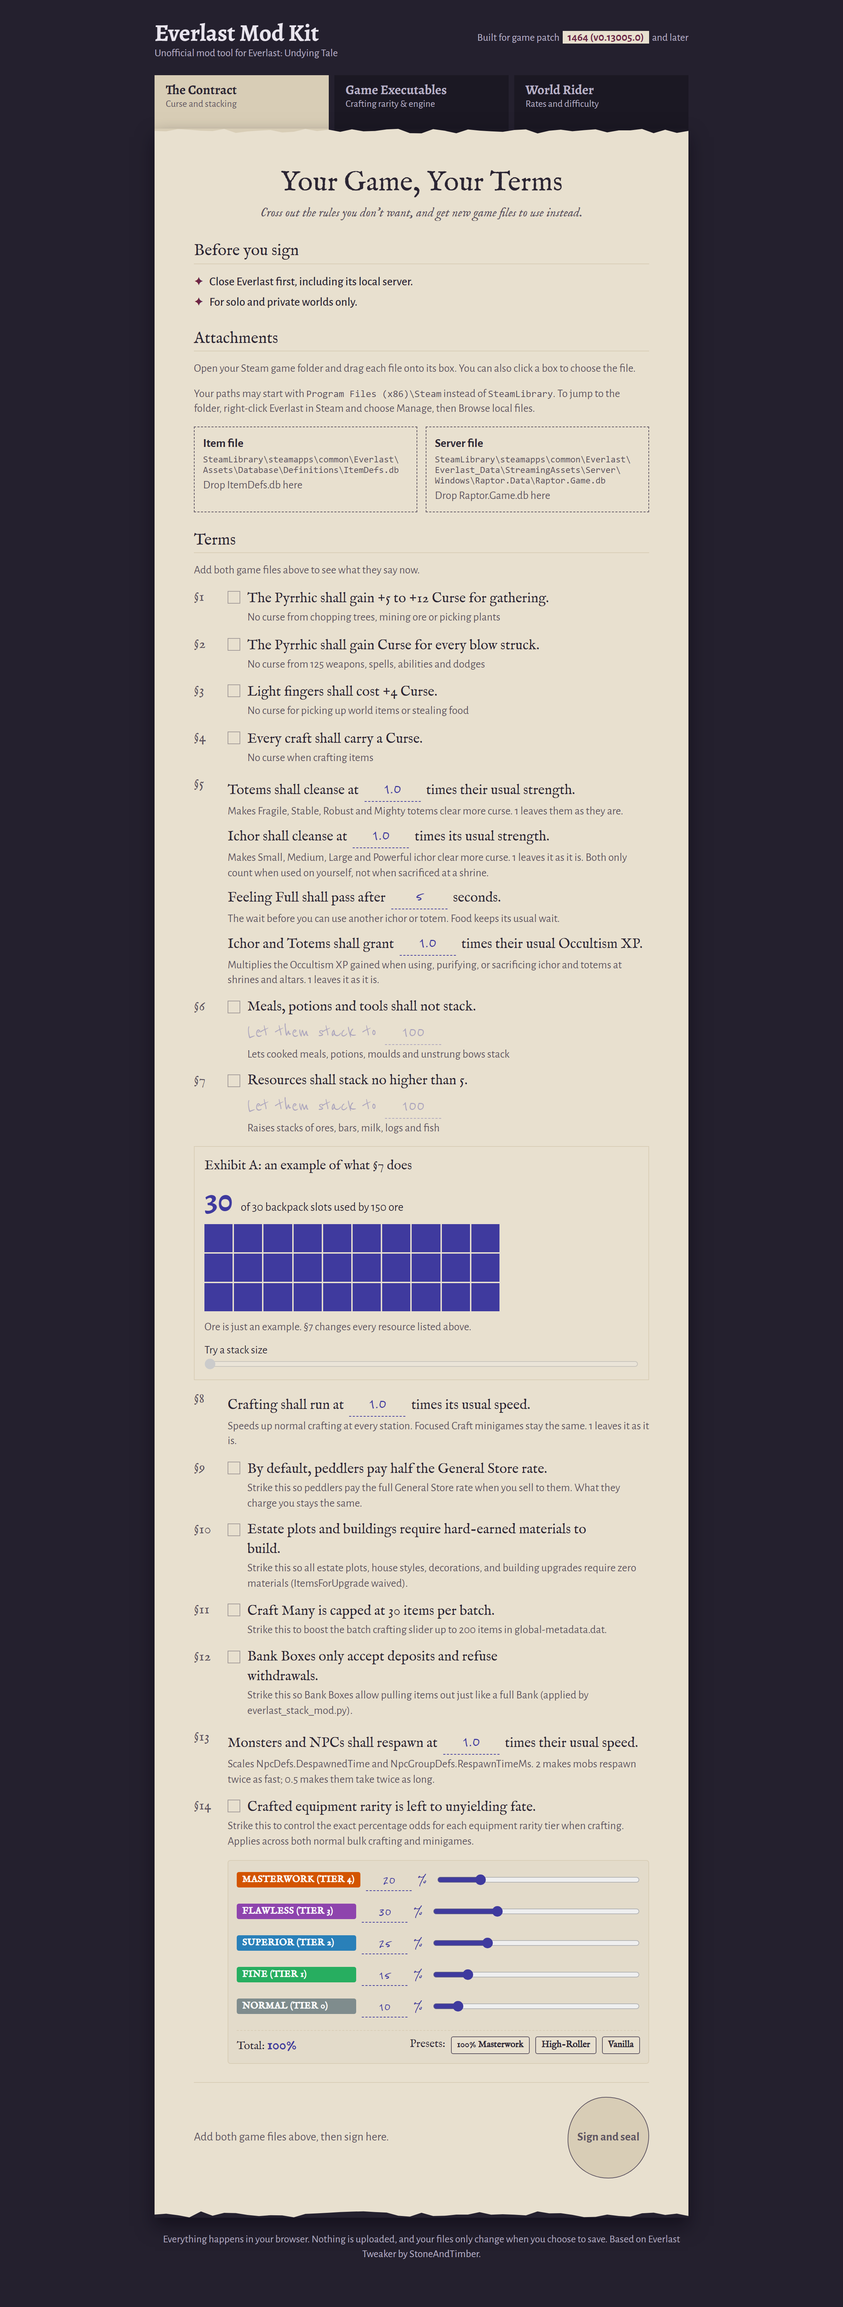
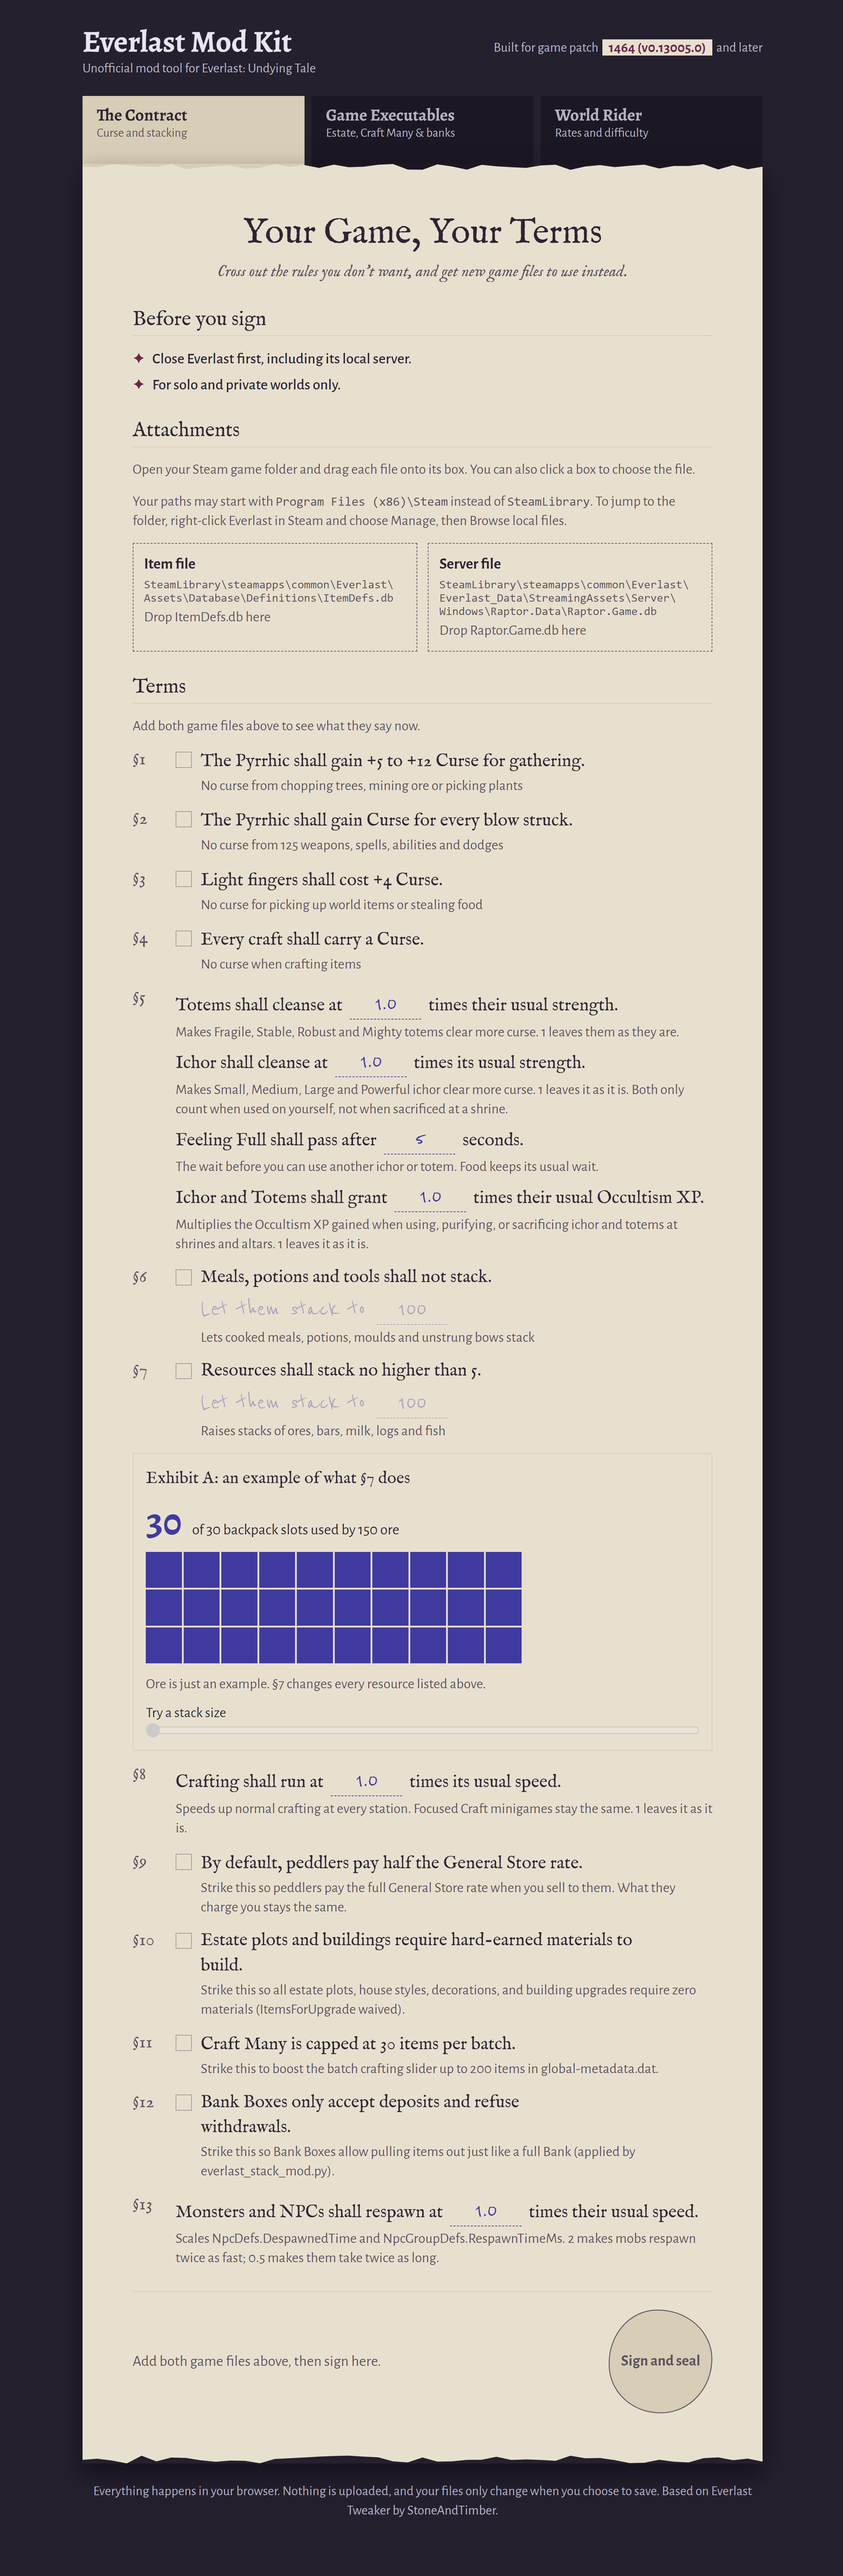
Update contract screenshot without crafting rarity
Retake the contract page screenshot now that §14 rarity is gone, and
rename the Game Executables tab subtitle that still mentioned rarity.

Changed region(s): [[0.0938, 0.0, 0.9062, 0.9991], [0.6562, 0.6557, 0.6875, 0.6869]]

diff --git a/Everlast Mod Kit.html b/Everlast Mod Kit.html
@@ -264,7 +264,7 @@
 
   <div class="bookmarks" role="tablist">
     <button class="bookmark active" role="tab" aria-selected="true" onclick="switchTab('databases')">The Contract<small>Curse and stacking</small></button>
-    <button class="bookmark" role="tab" aria-selected="false" onclick="switchTab('executables')">Game Executables<small>Crafting rarity & engine</small></button>
+    <button class="bookmark" role="tab" aria-selected="false" onclick="switchTab('executables')">Game Executables<small>Estate, Craft Many & banks</small></button>
     <button class="bookmark" role="tab" aria-selected="false" onclick="switchTab('worlds')">World Rider<small>Rates and difficulty</small></button>
   </div>
 
